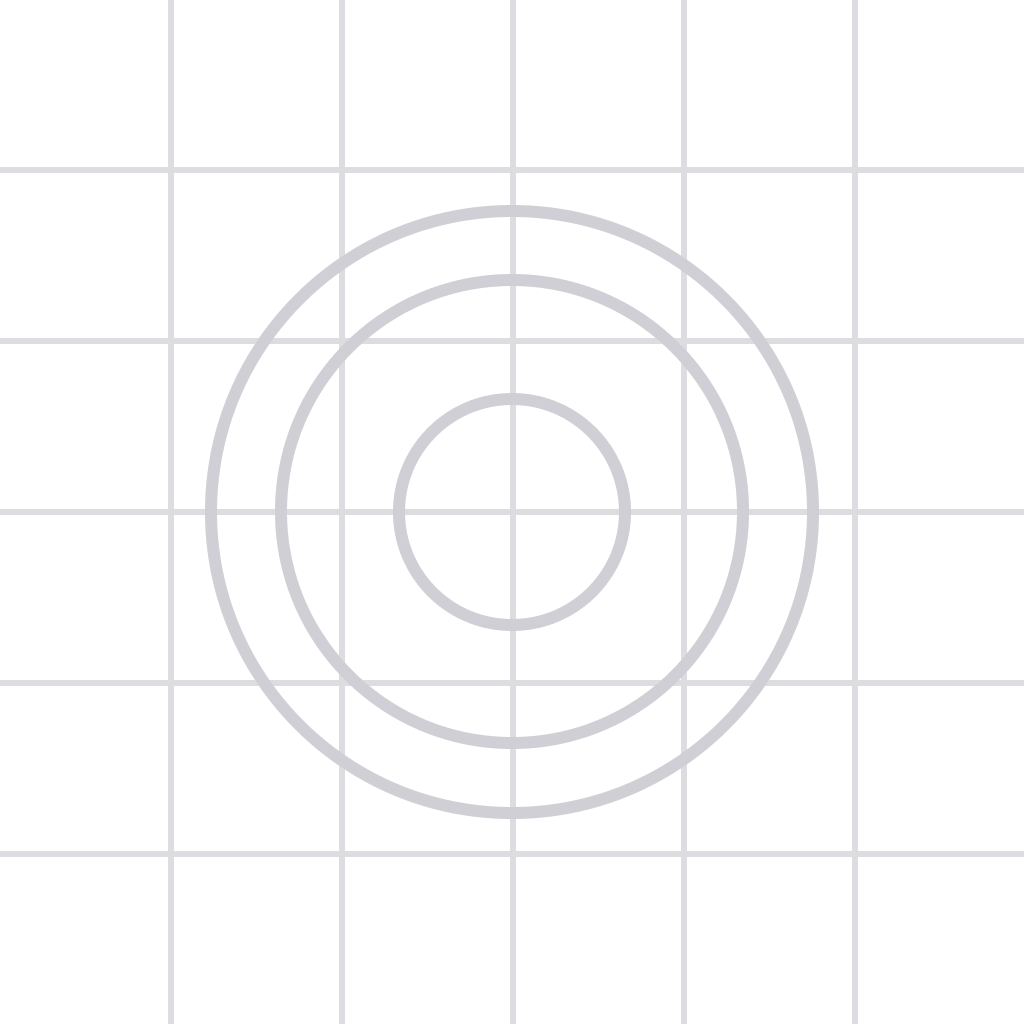
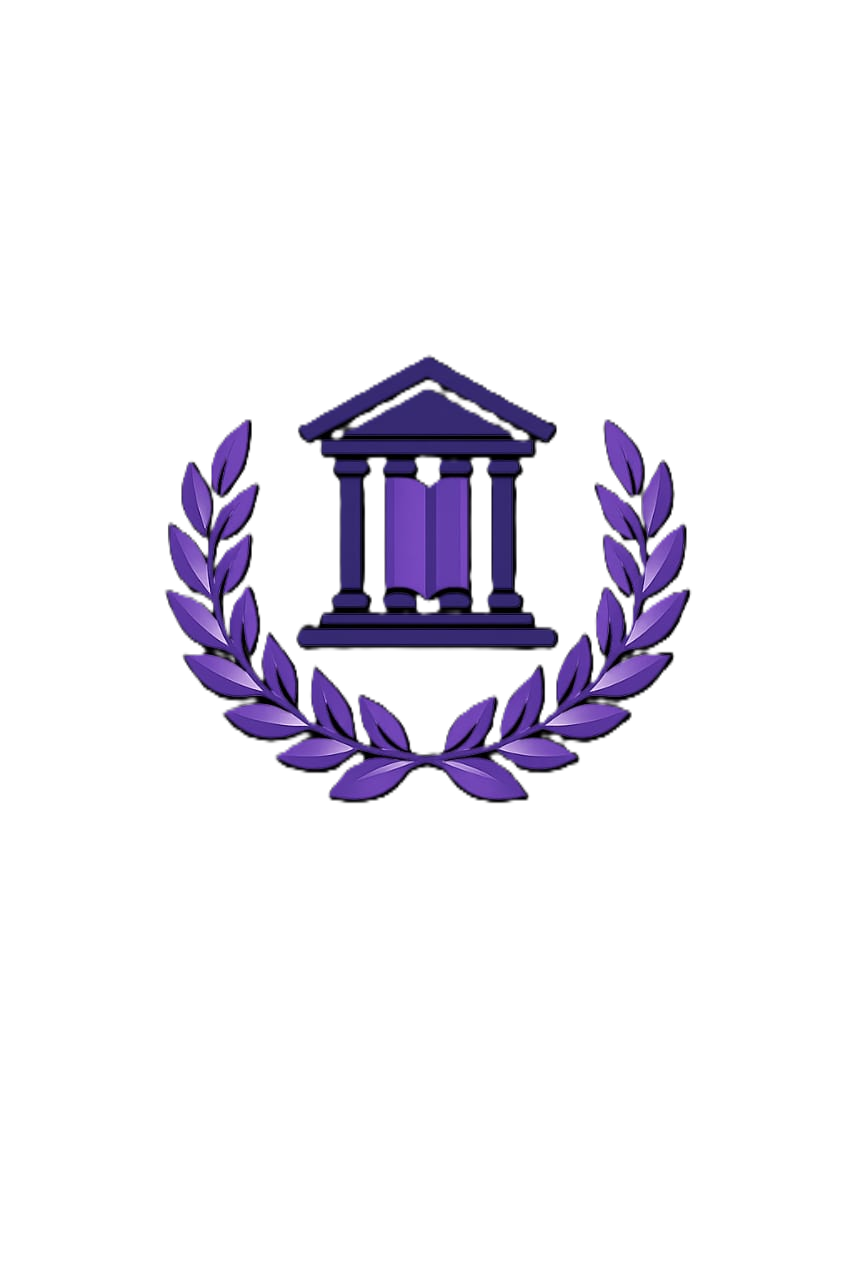
Production

Changed region(s): [[0.0, 0.0, 1.0, 1.0]]

diff --git a/frontend/src/services/api.js b/frontend/src/services/api.js
@@ -1,48 +1,15 @@
 import axios from 'axios';
 import AsyncStorage from '@react-native-async-storage/async-storage';
-import Constants from 'expo-constants';
-import { Platform } from 'react-native';
 
-const getExpoHost = () => {
-  return (
-    Constants.manifest?.debuggerHost?.split(':')[0] ||
-    Constants.manifest2?.debuggerHost?.split(':')[0] ||
-    Constants.expoConfig?.hostUri?.split(':')[0] ||
-    Constants.expoConfig?.extra?.apiHost ||
-    Constants.manifest?.extra?.apiHost ||
-    null
-  );
-};
-
-const getApiHost = () => {
-  const expoHost = getExpoHost();
-  if (expoHost) {
-    return expoHost;
-  }
-
-  if (Platform.OS === 'android') {
-    return '10.0.2.2';
-  }
-
-  if (Platform.OS === 'ios') {
-    return '127.0.0.1';
-  }
-
-  return 'localhost';
-};
-
-const API_URL = Constants.manifest?.extra?.apiHost
-  ? `http://${Constants.manifest.extra.apiHost}/api`
-  : `http://${getApiHost()}:8000/api`;
-console.log('[API] baseURL=', API_URL, 'expoHost=', getExpoHost());
-// Si tu utilises un vrai téléphone, ajoute "apiHost" dans app.json extra ou remplace ici par l'IP de ton PC.
+const API_URL = 'http://10.135.16.189:8000/api';
+console.log('[API] baseURL=', API_URL);
 
 const api = axios.create({
   baseURL: API_URL,
   timeout: 50000,
   headers: {
     'Content-Type': 'application/json',
-    'Accept':       'application/json',
+    'Accept': 'application/json',
   },
 });
 